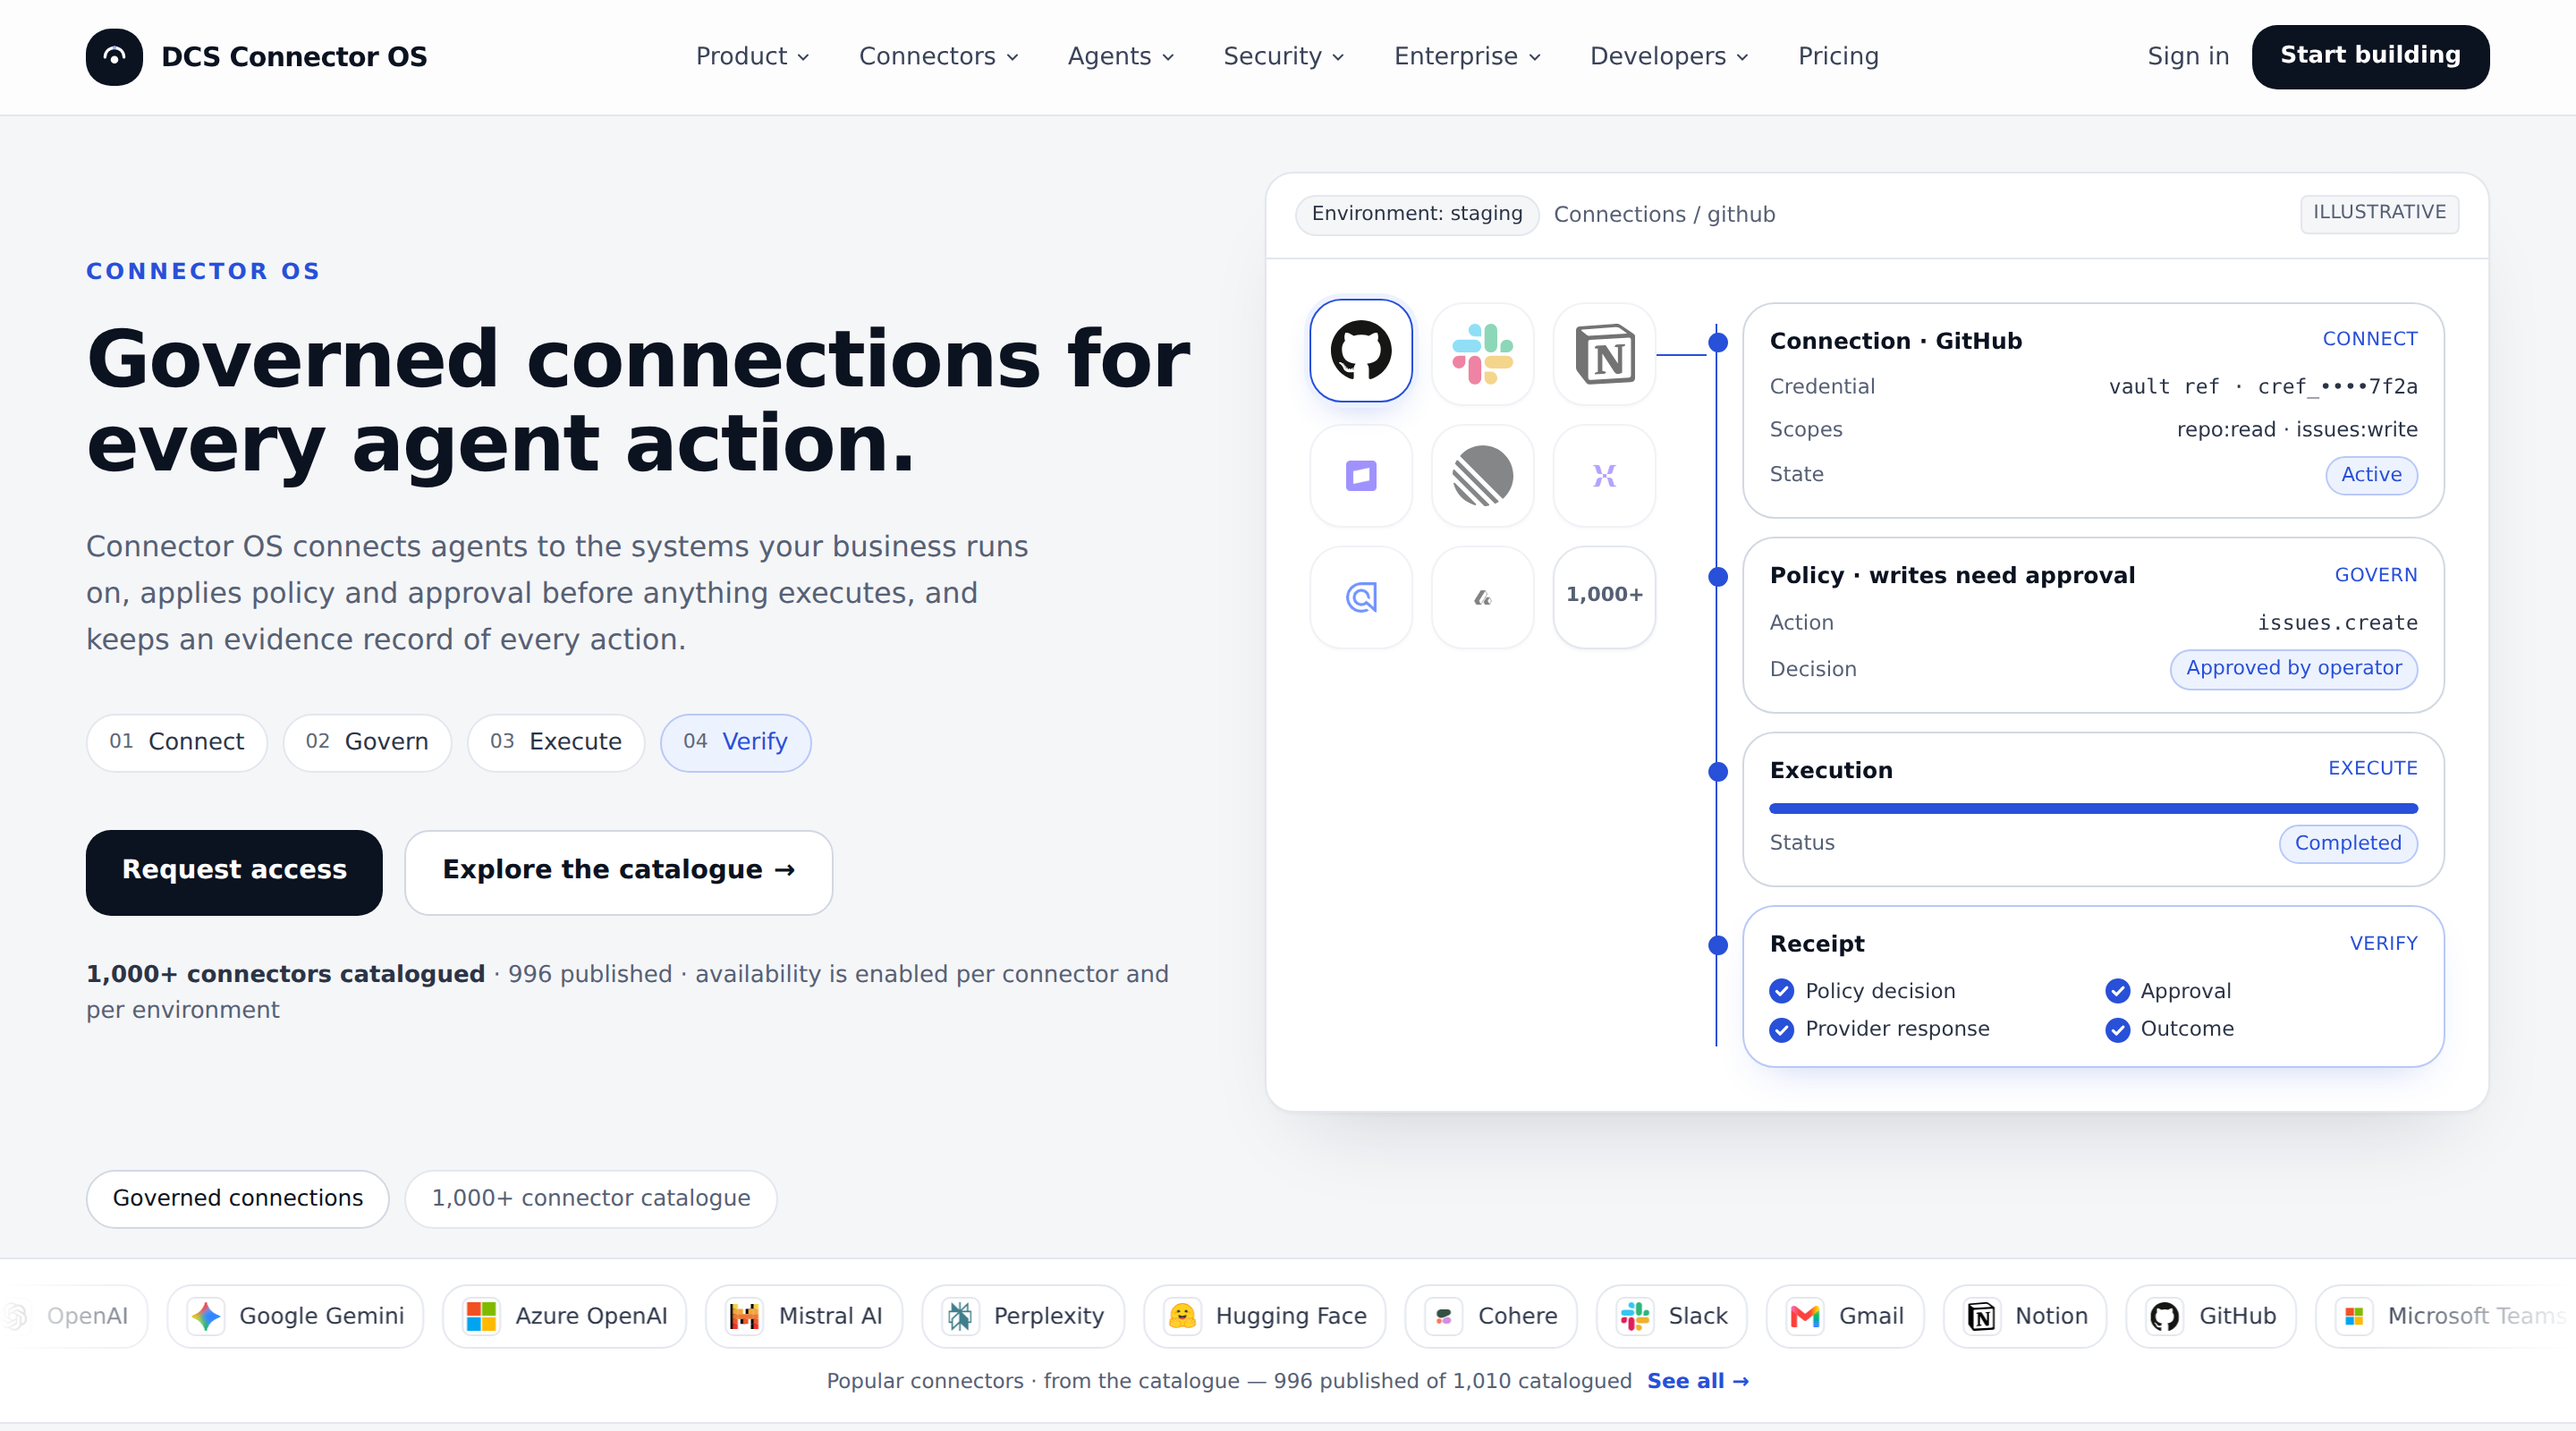
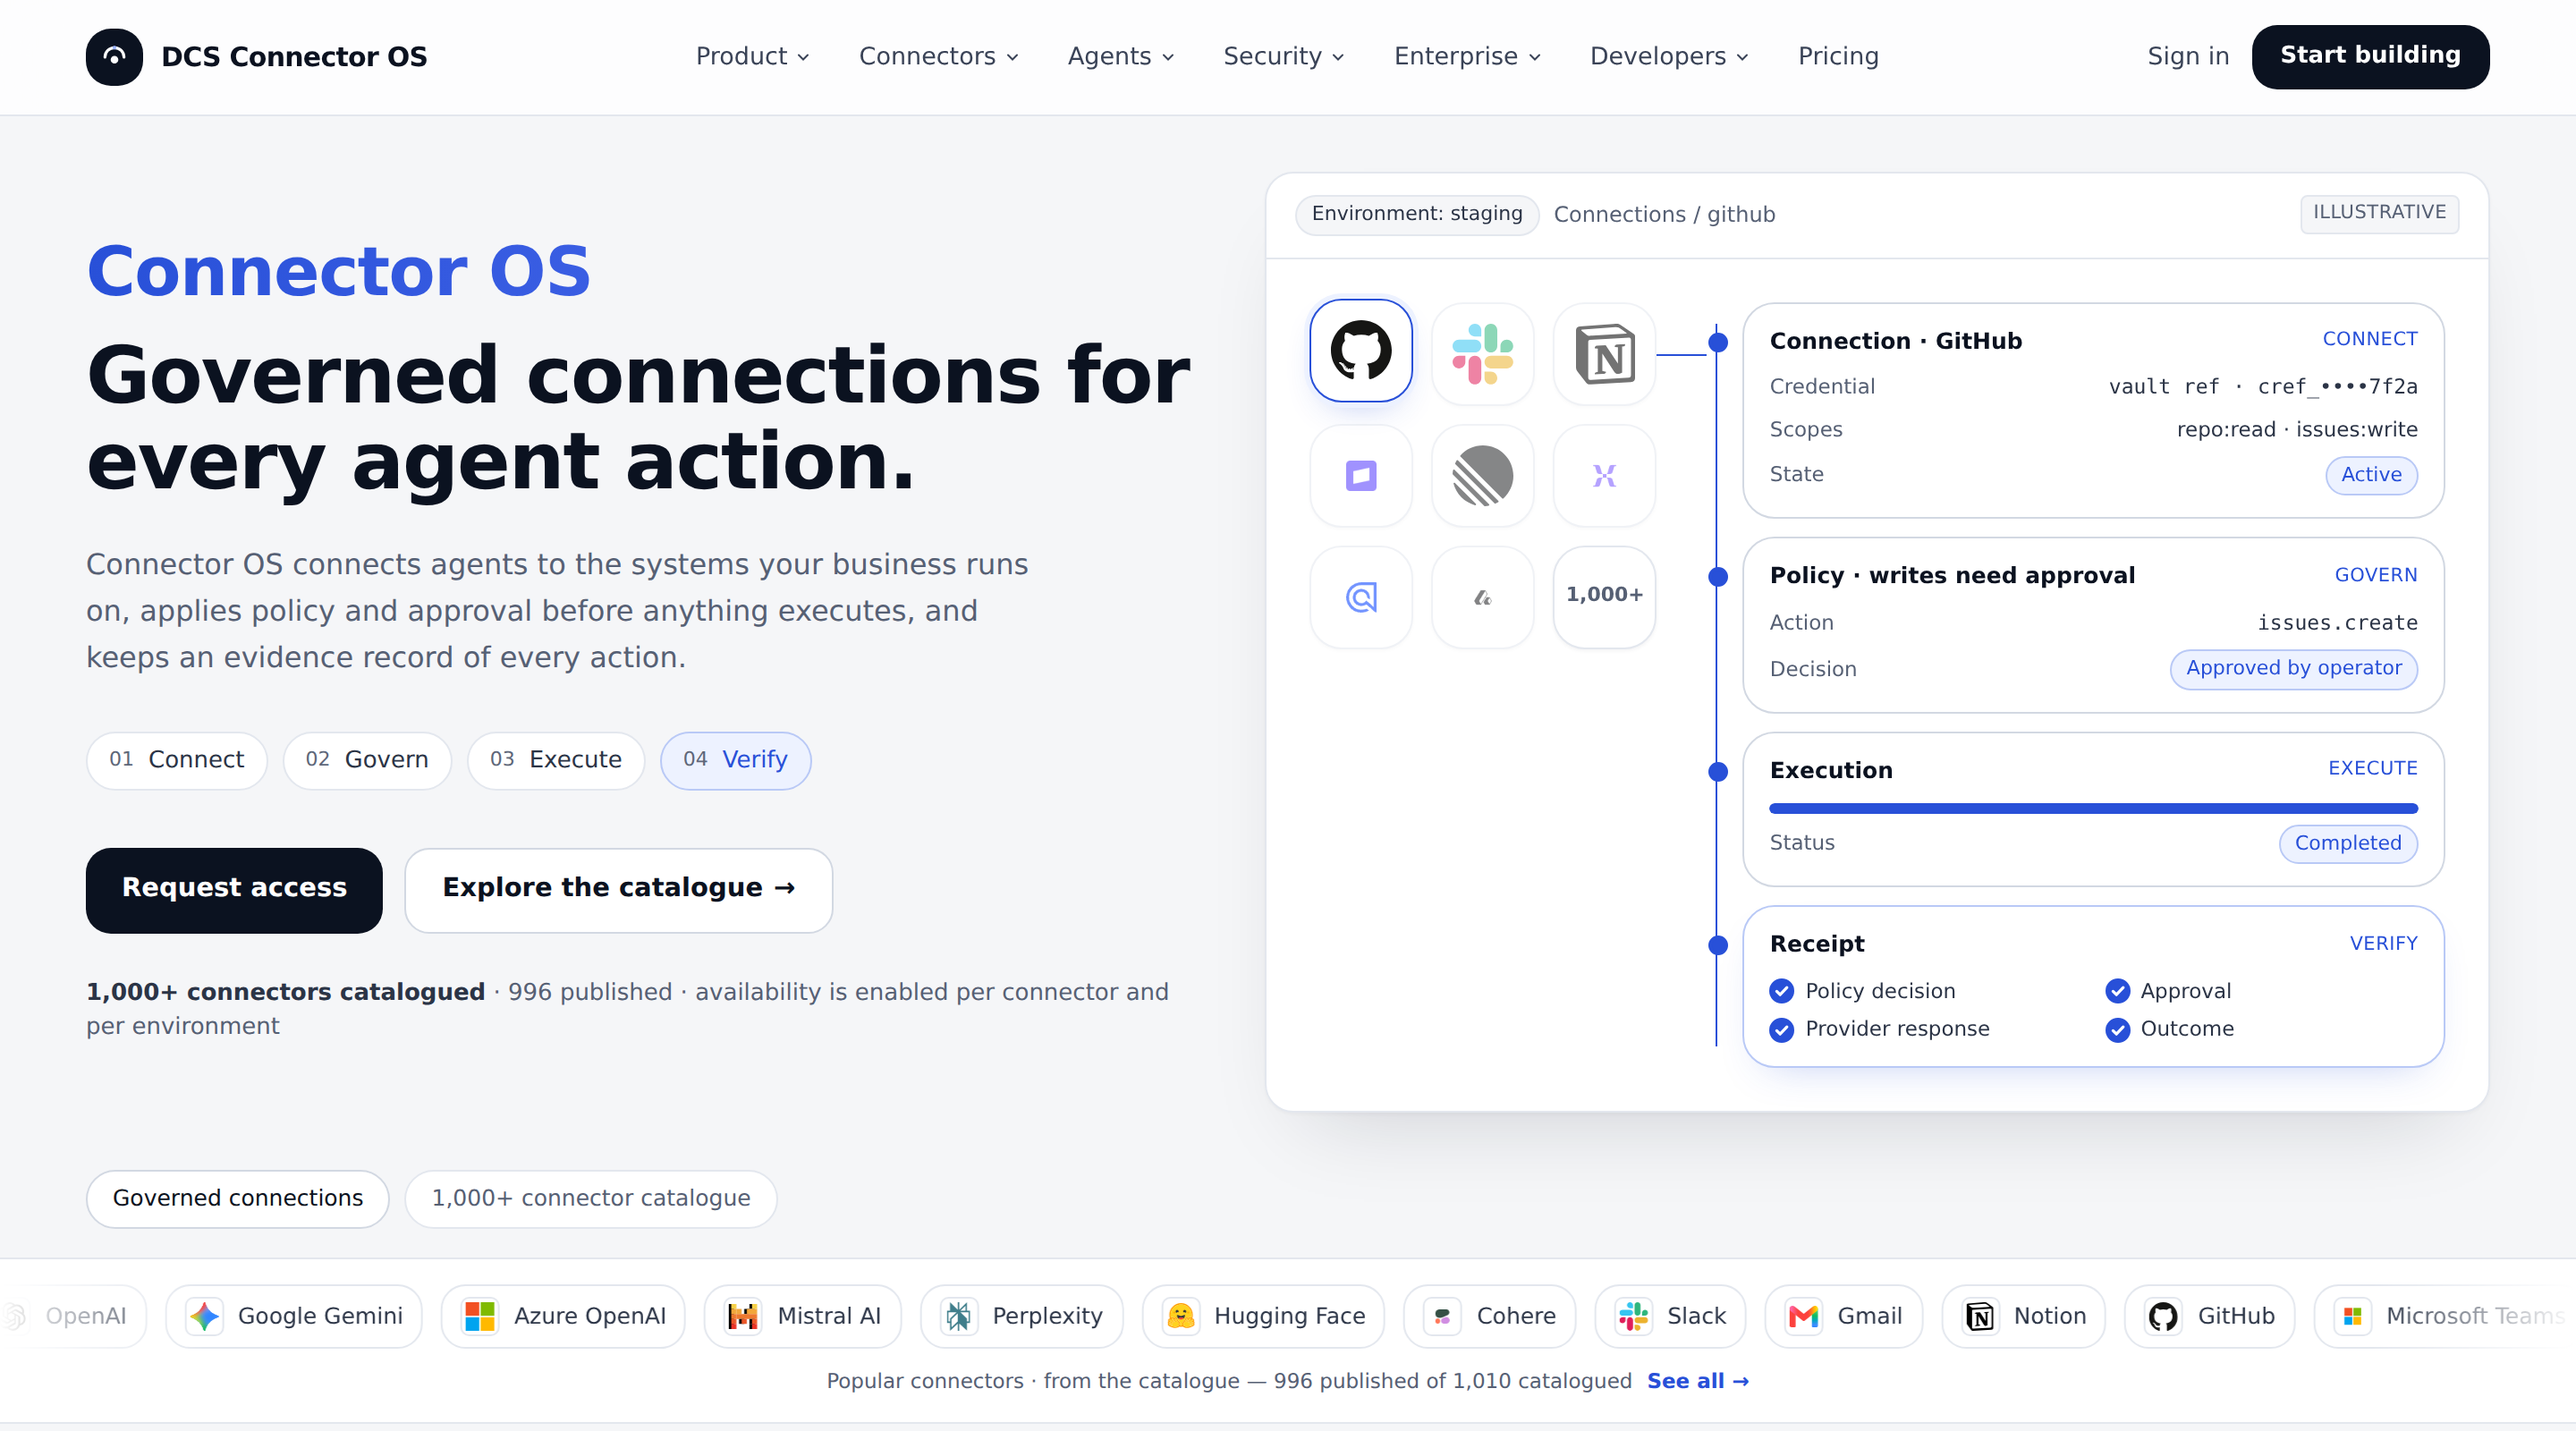
Home hero: large blue Connector OS wordmark above the headline
Claude-Session: https://claude.ai/code/session_014G6CRjB5deV2ypoDAYzgL6

diff --git a/src/components/hero/Heroes.tsx b/src/components/hero/Heroes.tsx
@@ -102,6 +102,17 @@ function ScaleLine({ center = false }: { center?: boolean }) {
   )
 }
 
+// The product name above the hero headline: a large blue wordmark (founder direction, 05 Oct 2026).
+// The gradient stays within the accent blues, so it keeps at least 3:1 contrast as large text.
+function BrandMark() {
+  return (
+    <p className="text-[30px] font-bold leading-none tracking-[-0.02em] sm:text-[38px]"
+      style={{ color: C.blue, backgroundImage: `linear-gradient(90deg, ${C.blue}, #4F6EF0)`, WebkitBackgroundClip: 'text', backgroundClip: 'text', WebkitTextFillColor: 'transparent' }}>
+      Connector OS
+    </p>
+  )
+}
+
 function Illustrative() {
   return <span className="rounded px-1.5 py-0.5 text-[10.5px] font-medium uppercase tracking-wide" style={{ color: C.muted, background: C.bg, border: `1px solid ${C.line}` }}>Illustrative</span>
 }
@@ -168,7 +179,7 @@ export function HeroA({ running = true, heading: Heading = 'h1' }: HeroProps = {
   return (
     <section className="mx-auto px-4 sm:px-8 xl:px-12 2xl:px-16 grid max-w-[1760px] items-center gap-10 pb-6 pt-8 lg:grid-cols-[0.95fr_1.05fr] lg:pt-8 ">
       <div className="min-w-0">
-        <p className="text-[12.5px] font-semibold uppercase tracking-[0.14em]" style={{ color: C.blue }}>Connector OS</p>
+        <BrandMark />
         <Heading className={H1} style={{ color: C.ink }}>Governed connections for every agent action.</Heading>
         <p className={`mt-5 max-w-[540px] ${LEAD}`} style={{ color: C.muted }}>
           Connector OS connects agents to the systems your business runs on, applies policy and approval before anything executes, and keeps an evidence record of every action.
@@ -396,7 +407,7 @@ export function HeroC({ running = true, heading: Heading = 'h1' }: HeroProps = {
   return (
     <section className="mx-auto px-4 sm:px-8 xl:px-12 2xl:px-16 grid max-w-[1760px] items-center gap-10 pb-6 pt-8 lg:grid-cols-[0.9fr_1.1fr] lg:pt-8">
       <div className="min-w-0">
-        <p className="text-[12.5px] font-semibold uppercase tracking-[0.14em]" style={{ color: C.blue }}>Connector OS</p>
+        <BrandMark />
         <Heading className={H1} style={{ color: C.ink }}>
           One control plane for {SCALE} connectors.
         </Heading>
